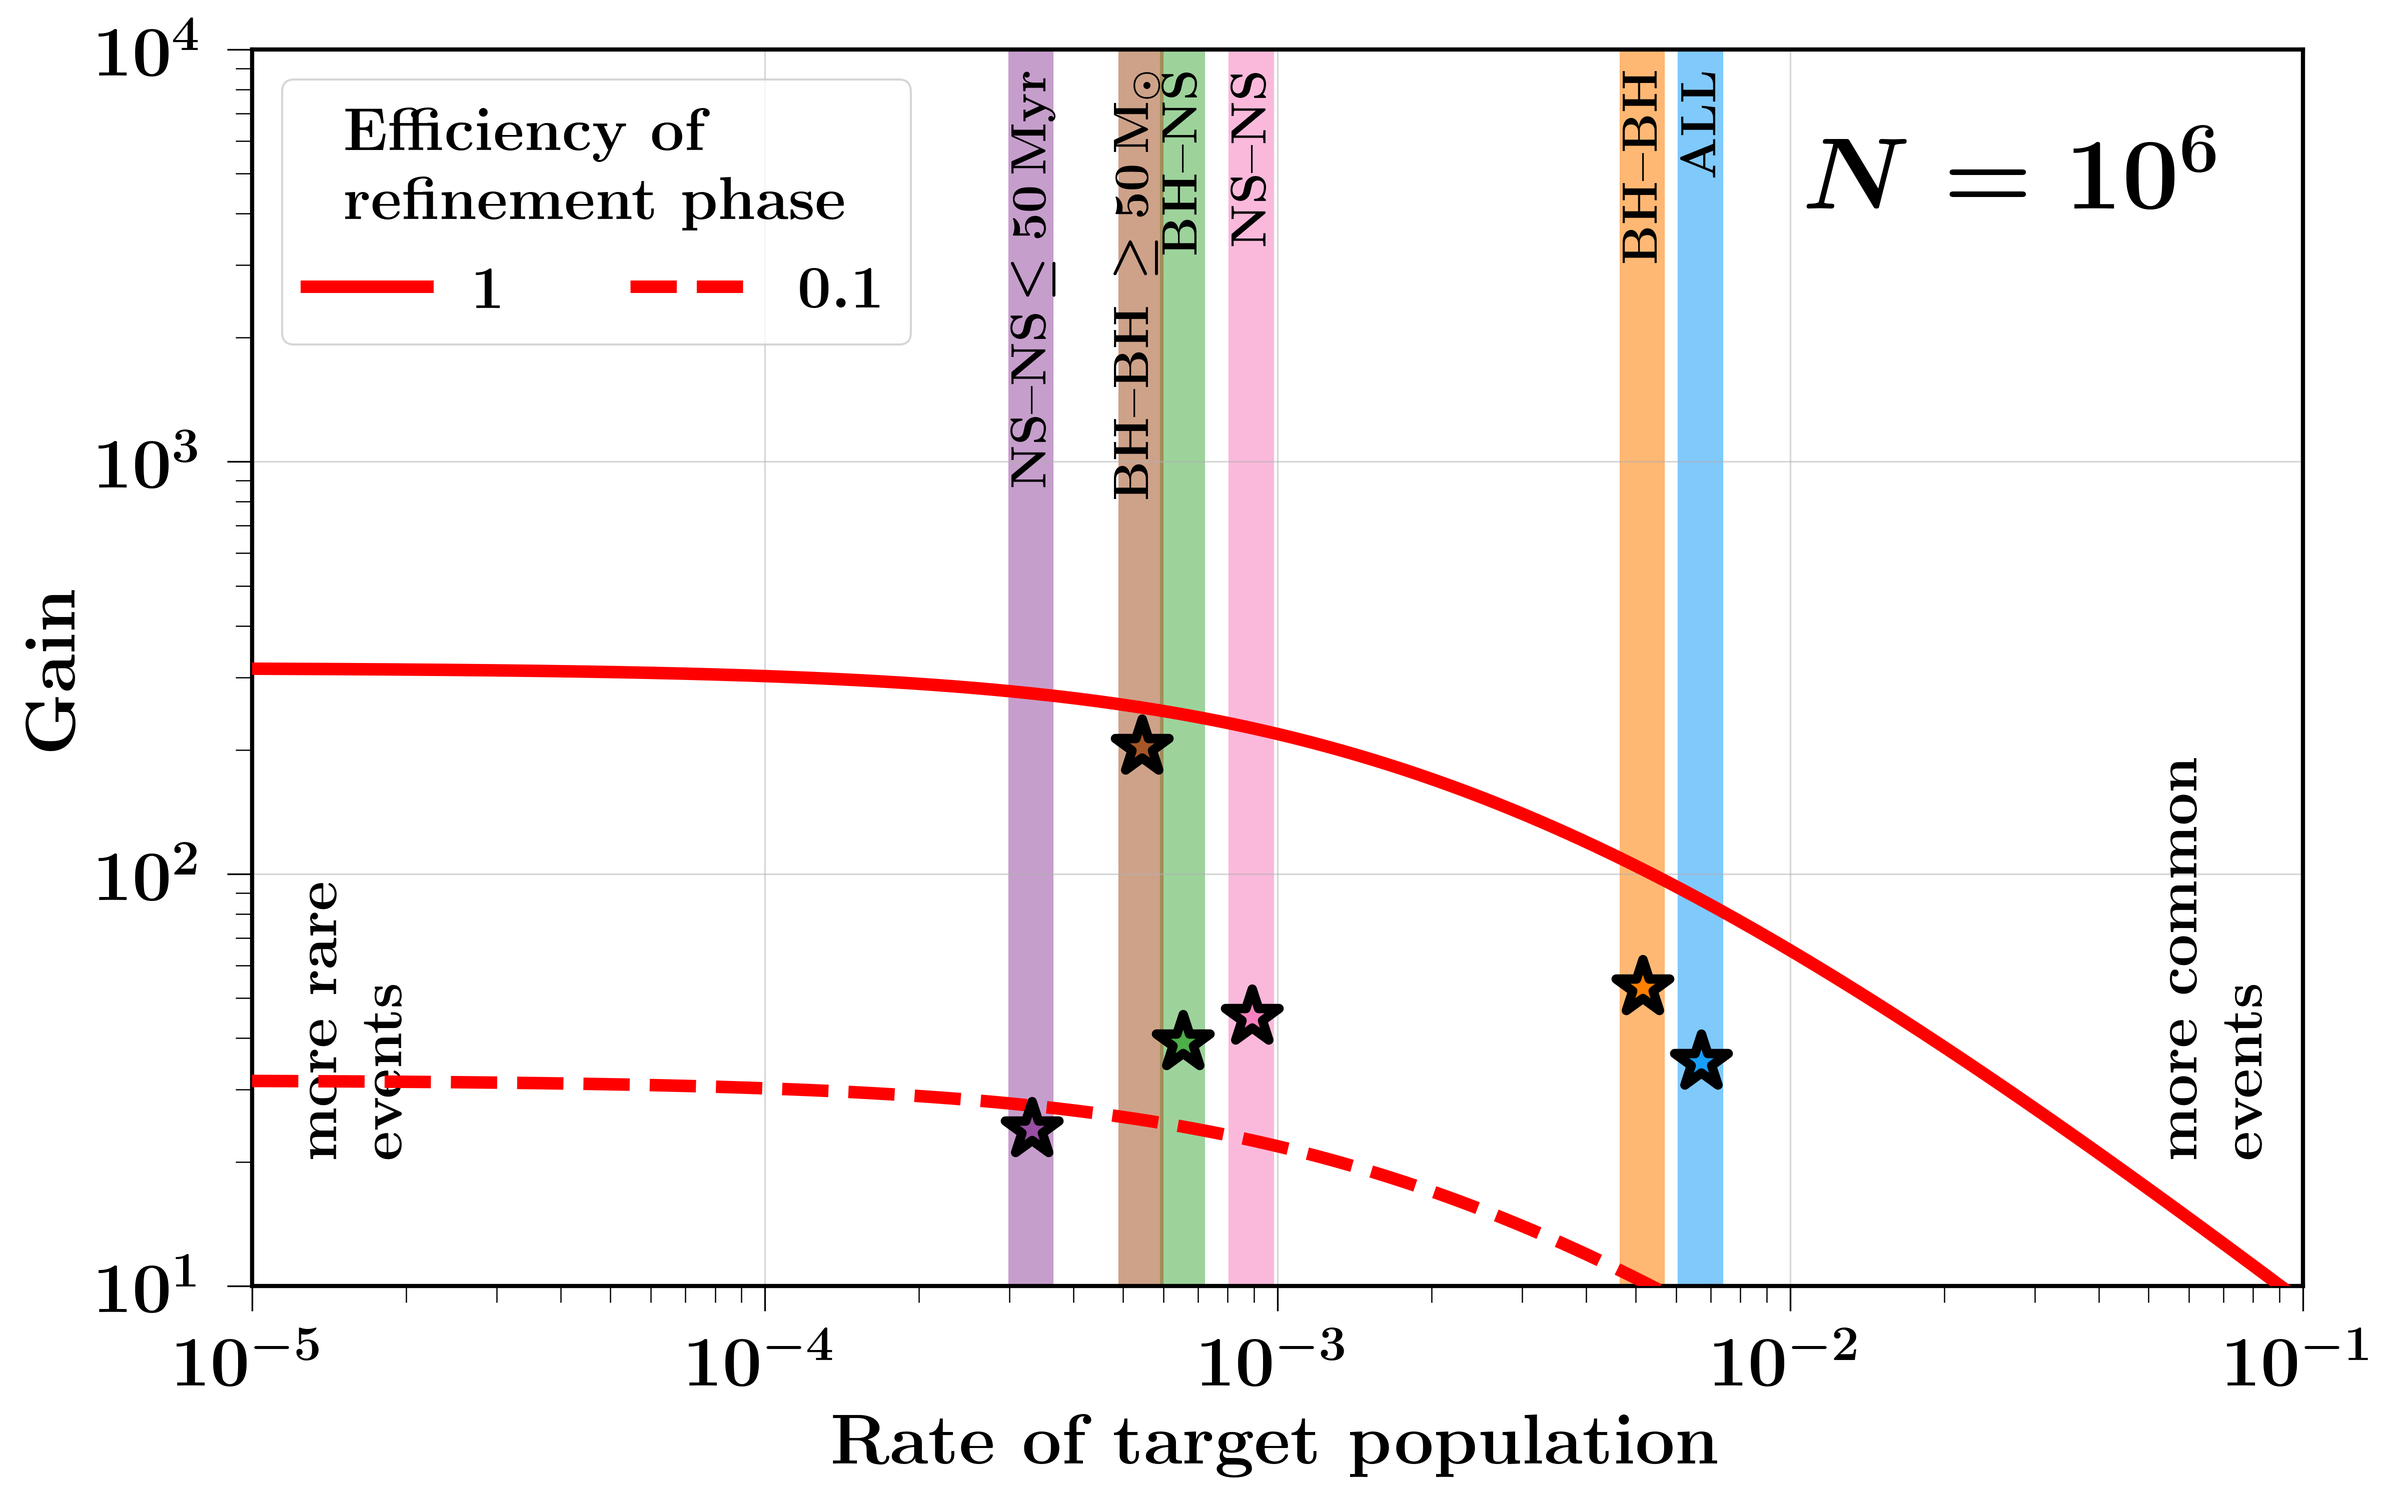
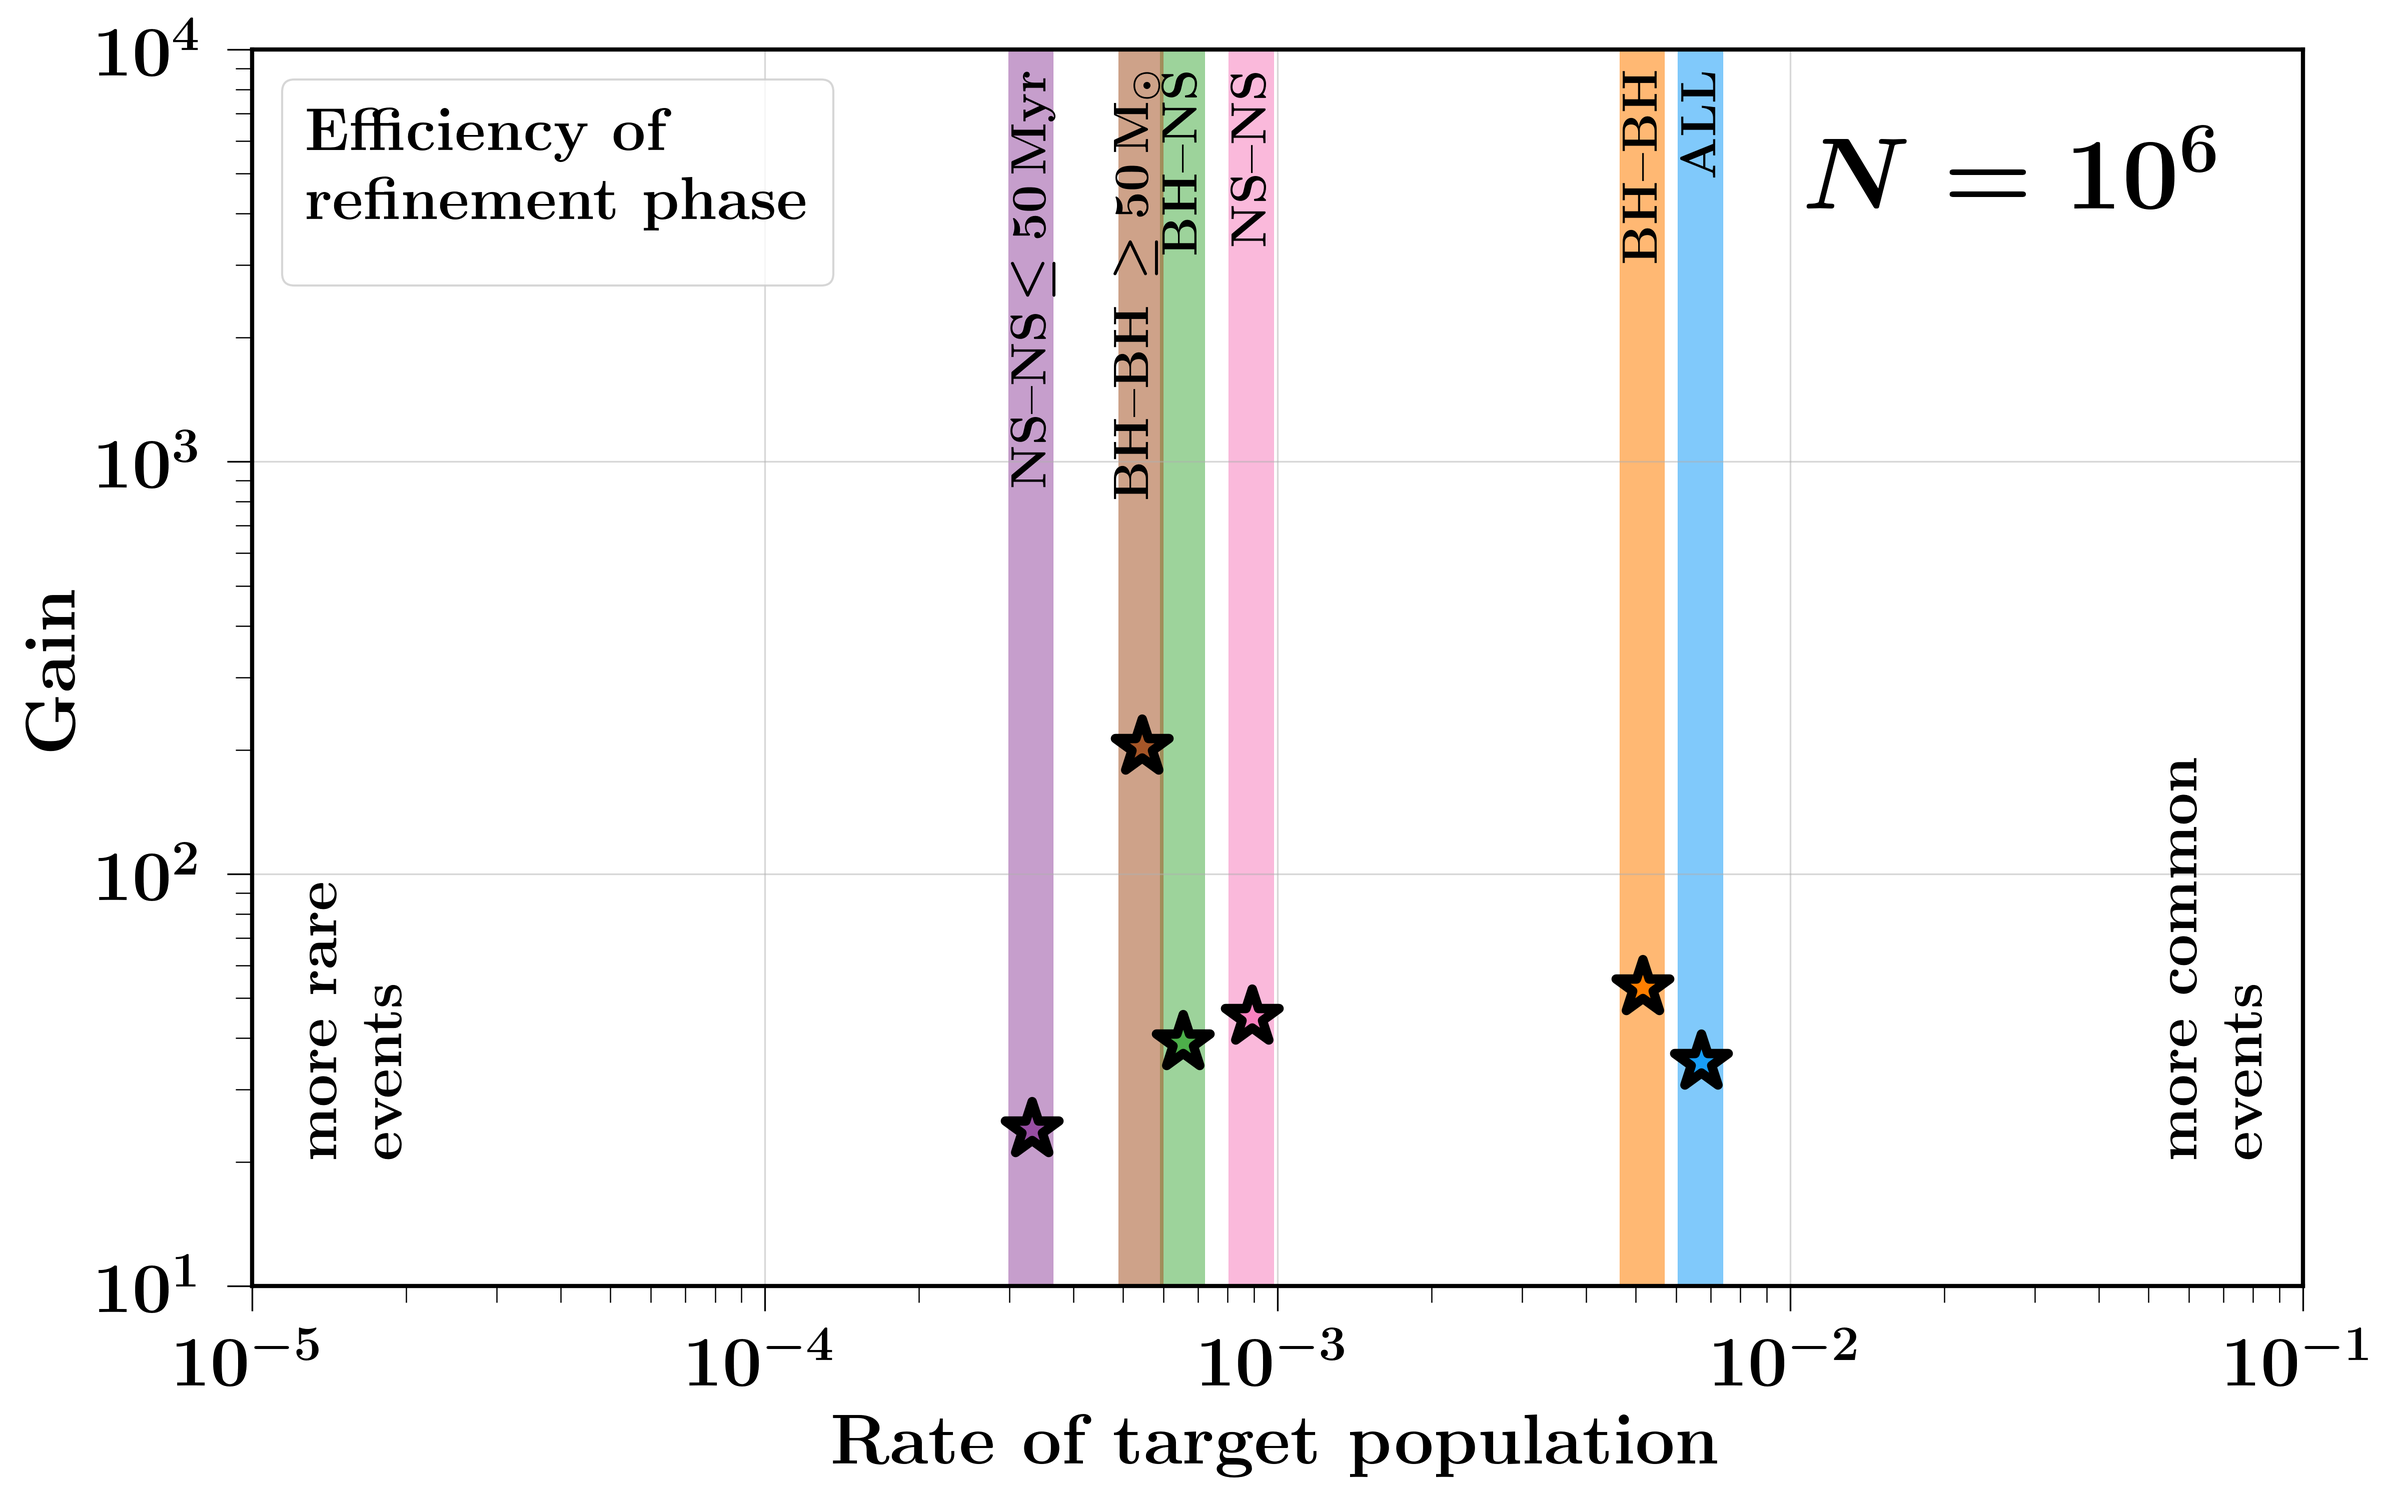
updated after Loki found bug in Plot Fig. 3

diff --git a/code_for_plotting_figures_paper/Stroopwafel_Fig2and3_Analytical/PlotAnalyticalDerivationFprior.py b/code_for_plotting_figures_paper/Stroopwafel_Fig2and3_Analytical/PlotAnalyticalDerivationFprior.py
@@ -416,38 +416,24 @@ LABELS2 = [r'$1$', r'$1/3$', r'$0.1$', r'$1/20$']
 
 f, (axarr) = plt.subplots(1,1, figsize=(16,10))
 
-for  ind, Ntot in enumerate(ListNtot):
-	if ind ==1:
+for  ind, Ntot in enumerate([1e6]):
 
-	    fexpl = CalculateFractionPriorIterated(rates, Ntot)
-	    # print 'fexpl = ', fexpl
-	    # NhitsMC = (rates*Ntot)
-	    # NhitsAIS = (rates*Ntot*fexpl + (1-fexpl)*Ntot)
-	    # Nexpl = np.zeros_like(rates)
-	    # maskNexplTooLow = (rates*Ntot*fexpl < 4)
+    if ind ==2:
+        print('making gain plot [Fig 3] for Ntot = ', Ntot)
+        fexpl = CalculateFractionPriorIterated(rates, Ntot)
+        NhitsMC = (rates*Ntot)
+        NhitsAIS = (rates*Ntot*fexpl + (1-fexpl)*Ntot) 
 
-	    # Nexpl[maskNexplTooLow] = 4 / rates[[maskNexplTooLow]] 
+        ratioNhits = NhitsAIS / NhitsMC
 
-	    # makszero = (Ntot - Nexpl) <= 0
-	    # NhitsAIS[makszero] = np.zeros_like(NhitsAIS)[makszero]
-
-	    # maksLeft = ((Ntot - Nexpl) > 0) & (Nexpl >0)
-	    # NhitsAIS[maksLeft] = (Ntot - Nexpl )[maksLeft]
-
-
-
-	    NhitsMC = (rates*Ntot)
-	    NhitsAIS = (rates*Ntot*fexpl + (1-fexpl)*Ntot) 
-
-
-	    ratioNhits = NhitsAIS / NhitsMC
-
-	    axarr.plot(rates,      ratioNhits, c='r', lw = 6, label = LABELS2[0], alpha = ALPHA[ind], zorder = 100)
-	    # axarr.plot(rates, 0.33* ratioNhits, c='r', lw = 6, label = LABELS2[1], alpha = ALPHA[ind], zorder = 100, linestyle = ':')
-	    axarr.plot(rates, 0.1* ratioNhits, c='r', lw = 6, label = LABELS2[2], alpha = ALPHA[ind], zorder = 100, linestyle = '--')
-	    # axarr.plot(rates, 0.05*ratioNhits, c='r', lw = 6, label = LABELS2[3], alpha = ALPHA[ind], zorder = 100, linestyle = '-.')
-	    # axarr.plot(rates, NhitsAIS, c='r', lw = 6, label = LABELS[ind], alpha = ALPHA[ind], zorder = 100)
-	    # axarr.plot(rates, NhitsMC,  c='k', lw = 6, label = LABELS[ind], alpha = ALPHA[ind], zorder = 100)
+        axarr.plot(rates,      ratioNhits, c='r', lw = 6, label = LABELS2[0], alpha = ALPHA[ind], zorder = 100)
+        # axarr.plot(rates, 0.33* ratioNhits, c='r', lw = 6, label = LABELS2[1], alpha = ALPHA[ind], zorder = 100, linestyle = ':')
+        NhitsAIS2 = (rates*Ntot*fexpl + (1-fexpl)*Ntot*0.1)
+        ratioNhits2 = (NhitsAIS2 / NhitsMC)
+        axarr.plot(rates, ratioNhits2, c='r', lw = 6, label = LABELS2[2], alpha = ALPHA[ind], zorder = 100, linestyle = '--')
+        # axarr.plot(rates, 0.05*ratioNhits, c='r', lw = 6, label = LABELS2[3], alpha = ALPHA[ind], zorder = 100, linestyle = '-.')
+        # axarr.plot(rates, NhitsAIS, c='r', lw = 6, label = LABELS[ind], alpha = ALPHA[ind], zorder = 100)
+        # axarr.plot(rates, NhitsMC,  c='k', lw = 6, label = LABELS[ind], alpha = ALPHA[ind], zorder = 100)
 
 
 
